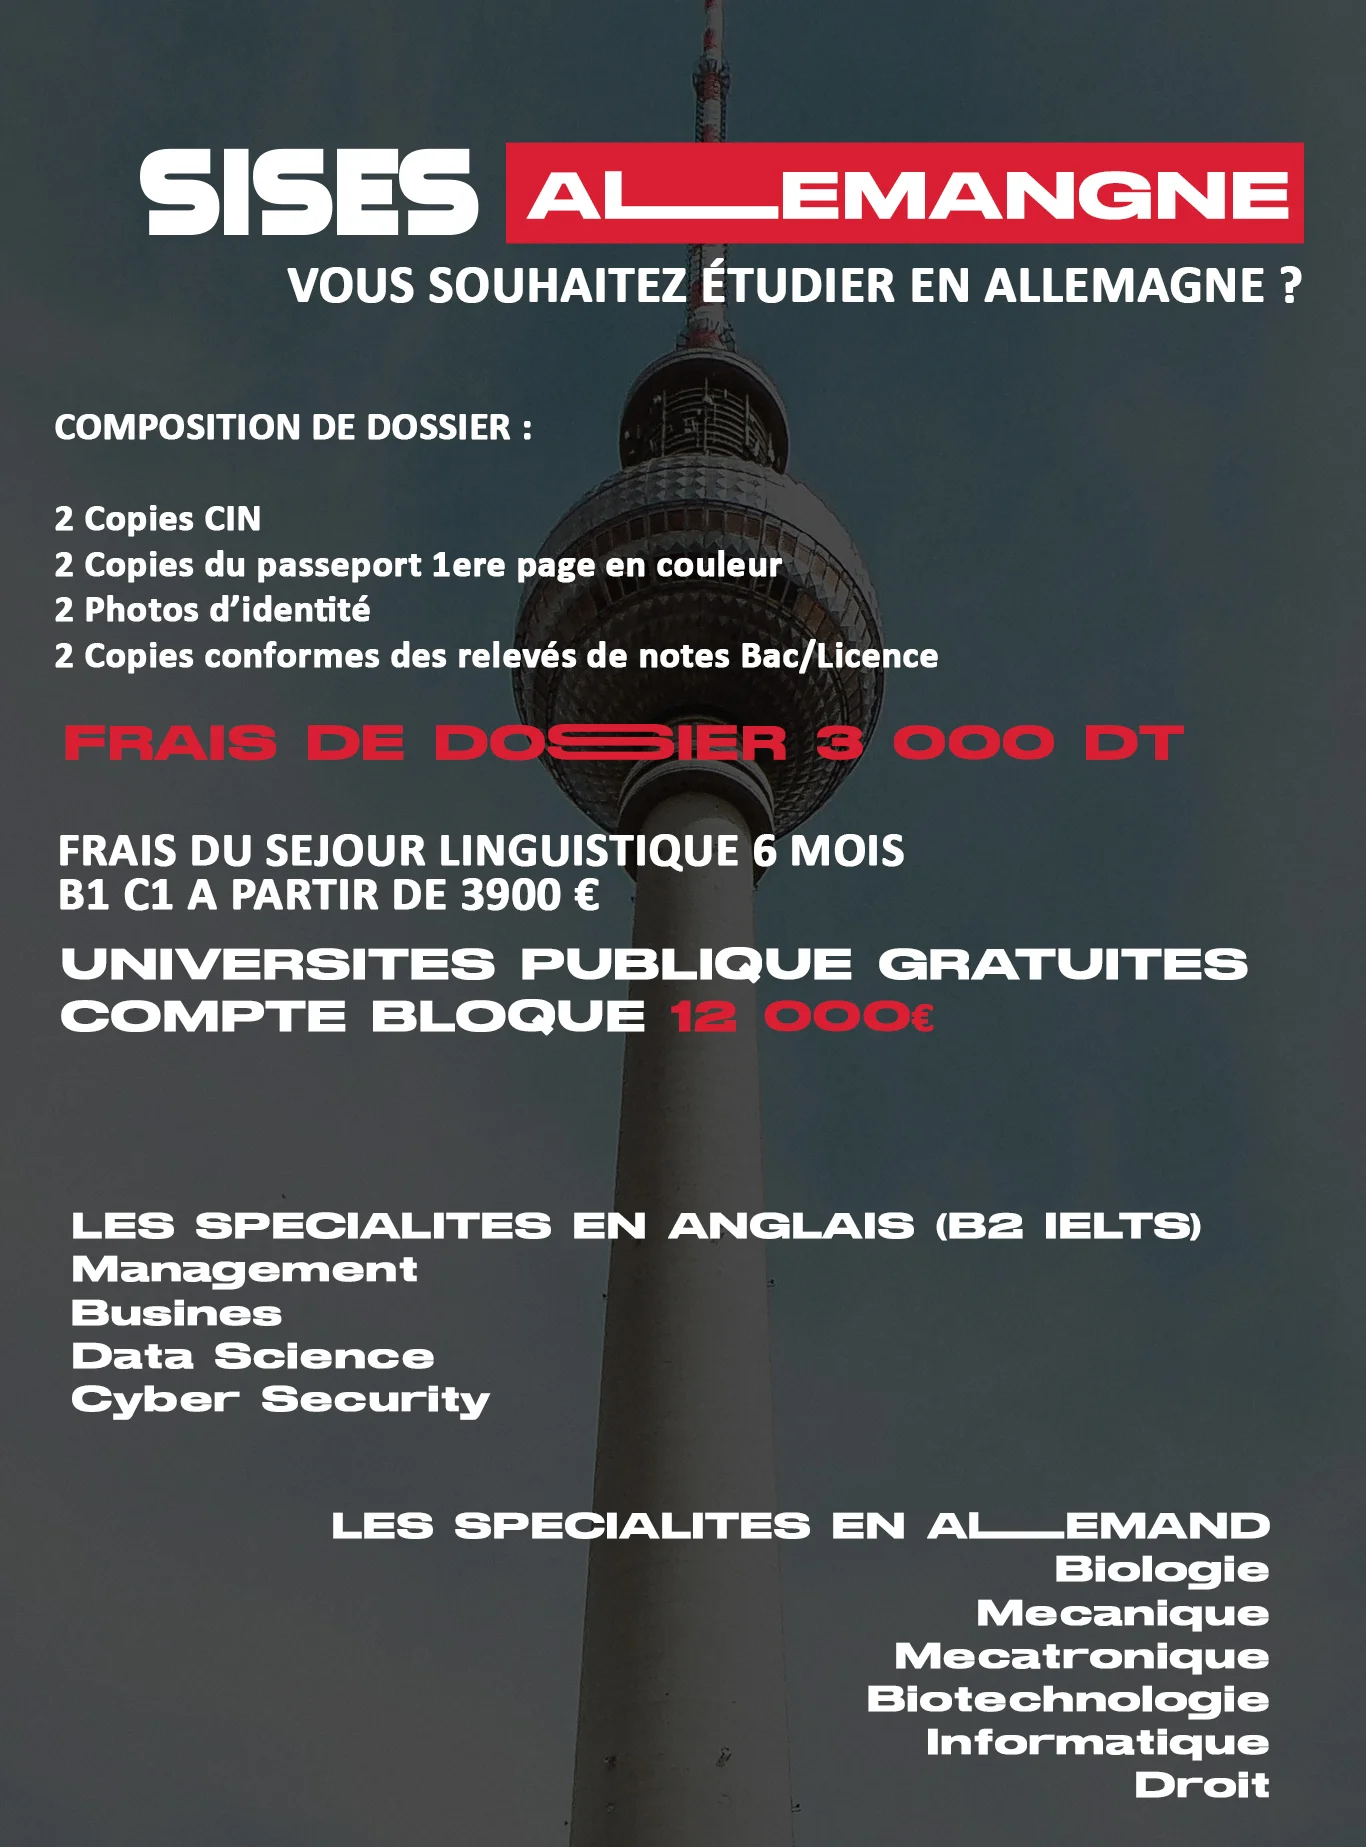
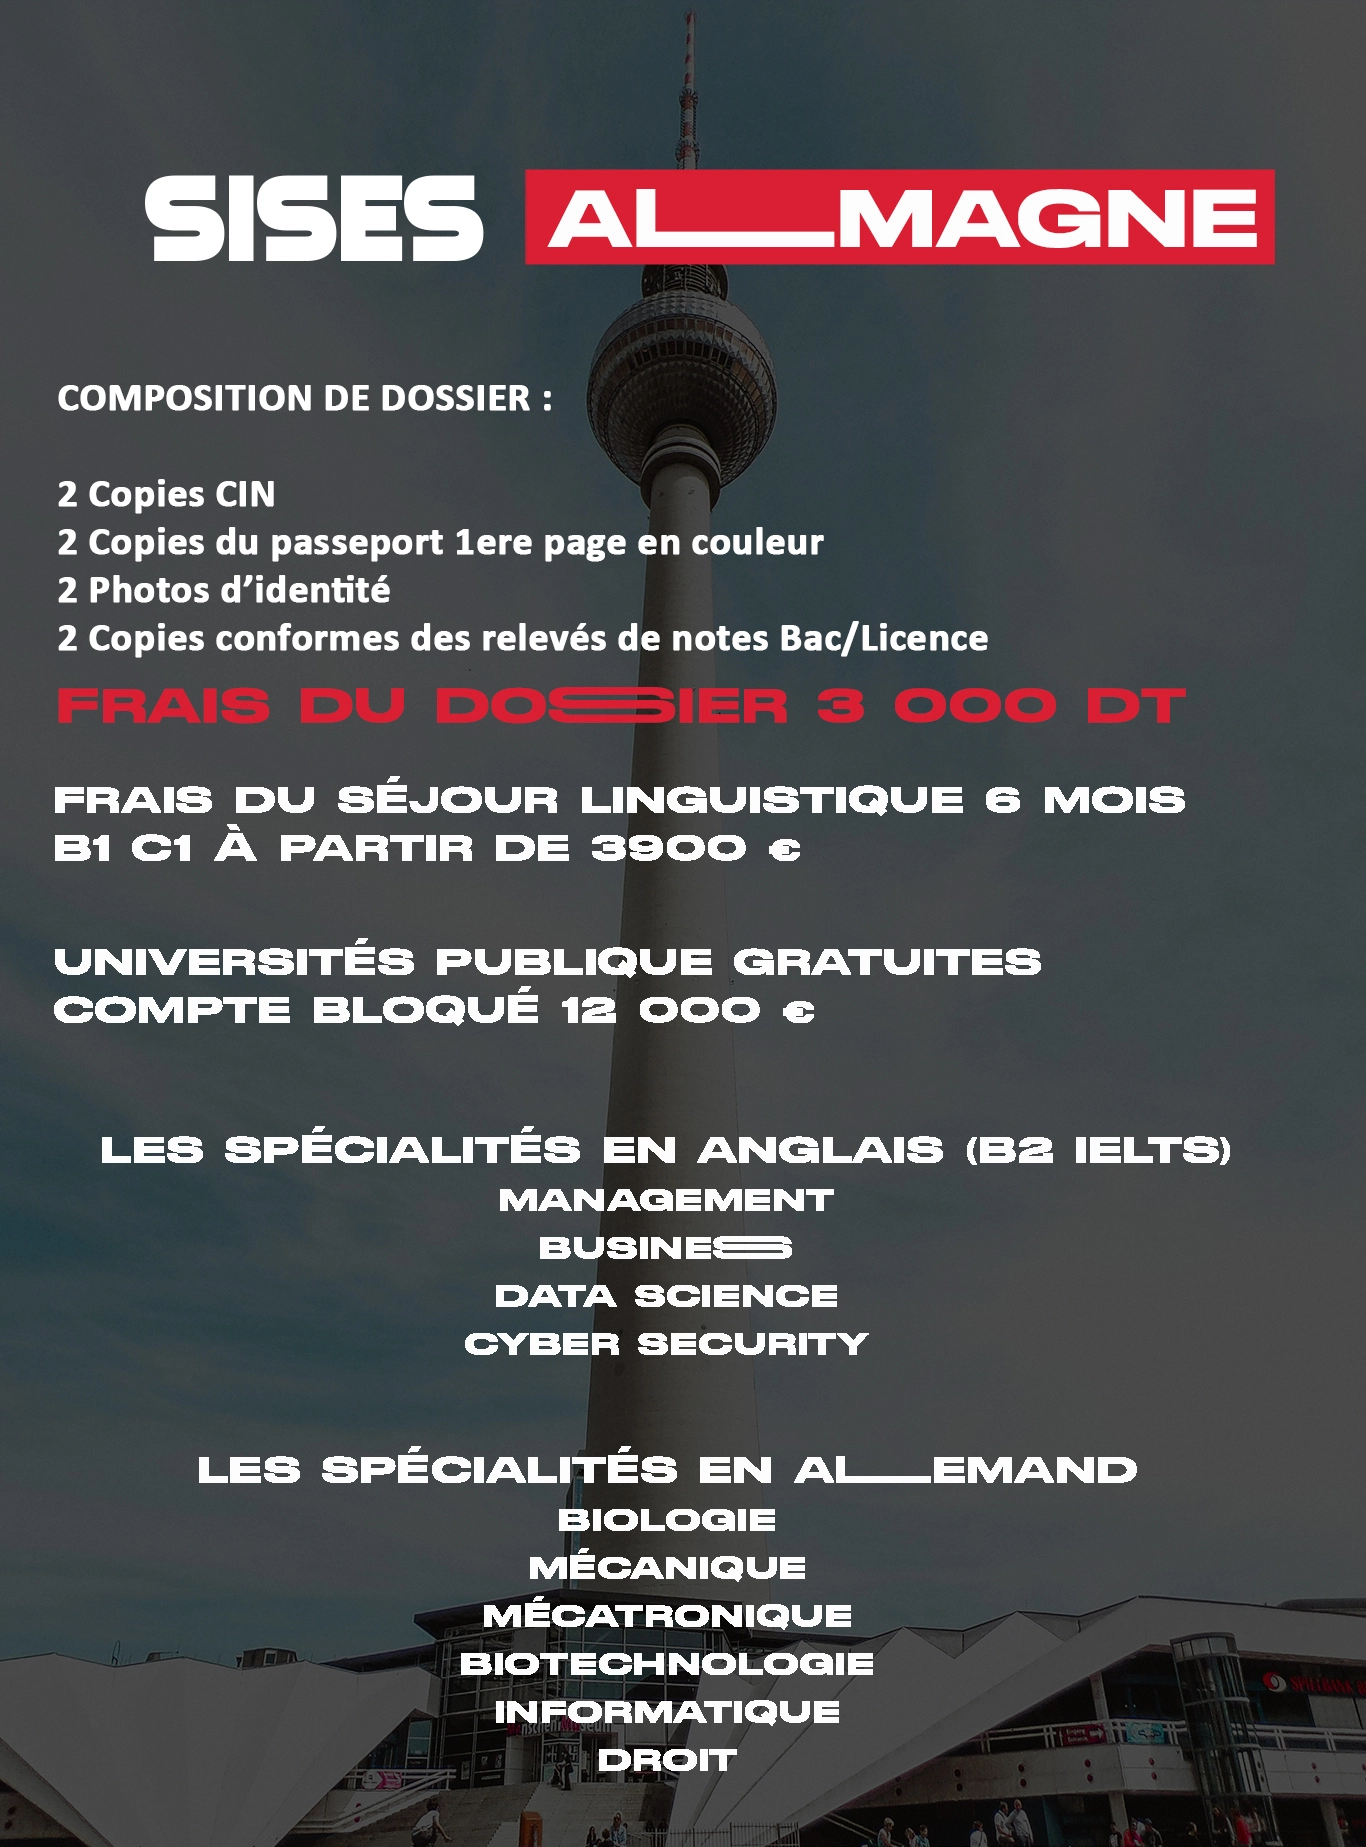
fixes

Changed region(s): [[0.0, 0.0, 1.0, 1.0], [0.0, 0.9567, 0.0922, 1.0], [0.1537, 0.895, 0.2152, 0.9258]]

diff --git a/src/app/pages/home-page/home-page.component.html b/src/app/pages/home-page/home-page.component.html
@@ -86,12 +86,12 @@
       <div class="container" data-aos="fade-up">
         <div class="section-title"><h2 class="sises-logo-title">CONTACT</h2></div>
         <div class="row gy-4">
-          <div class="col-lg-4" data-aos-delay="300"><div class="contact-hours h-100"><h4 class="fw-bold">HORAIRES D'OUVERTURE</h4><p>LUNDI - VENDREDI<br />8:00 - 17:00</p><p><strong>Email&nbsp;:</strong> elenadimassi@gmail.com</p><div class="social-links mt-3"><a href="#" class="facebook" aria-label="Facebook"><i class="bi bi-facebook"></i></a><a href="#" class="instagram" aria-label="Instagram"><i class="bi bi-instagram"></i></a></div></div></div>
+          <div class="col-lg-4" data-aos-delay="300"><div class="contact-hours h-100"><h4 class="fw-bold">HORAIRES D'OUVERTURE</h4><p>LUNDI - VENDREDI<br />8:00 - 17:00</p><p><strong>Email&nbsp;:</strong> elenadimassi@gmail.com</p><div class="social-links mt-3"><a href="https://www.facebook.com/SisesTunisie/" class="facebook" aria-label="Facebook"><i class="bi bi-facebook"></i></a><a href="https://www.instagram.com/sises.tunisia/" class="instagram" aria-label="Instagram"><i class="bi bi-instagram"></i></a></div></div></div>
           <div class="col-lg-8">
             <div class="row gy-4">
-              <div class="col-md-6" data-aos-delay="400"><div class="contact-location h-100"><h4 class="fw-bold">SISES TUNIS</h4><p>42, Av, Hedi Chaker im.Afric-Mode ben saleh,<br />App.B12 4éme étage - Tunis<br />71 781 386</p></div></div>
-              <div class="col-md-6" data-aos-delay="500"><div class="contact-location h-100"><h4 class="fw-bold">SISES LAC 2</h4><p>Av. De la bourse , Immeuble Diar Sidi Mansour 4,<br />Bureau MA2 bloc A , Lac 2<br />54 292 290</p></div></div>
-              <div class="col-md-6" data-aos-delay="600"><div class="contact-location h-100"><h4 class="fw-bold">SISES SAHEL</h4><p>Av, Habib Bourguiba (À coté de la poste)<br />Bouhjar - Monastir<br />55 288 139</p></div></div>
+              <div class="col-md-6" data-aos-delay="400"><div class="contact-location h-100"><h4 class="fw-bold">SISES TUNIS</h4><p>42, Av, Hedi Chaker im.Afric-Mode ben saleh,<br />App.B12 4éme étage - Tunis<br />+216 71 781 386</p></div></div>
+              <div class="col-md-6" data-aos-delay="500"><div class="contact-location h-100"><h4 class="fw-bold">SISES LAC 2</h4><p>Av. De la bourse , Immeuble Diar Sidi Mansour 4,<br />Bureau MA2 bloc A , Lac 2<br />+216 54 292 290</p></div></div>
+              <div class="col-md-6" data-aos-delay="600"><div class="contact-location h-100"><h4 class="fw-bold">SISES SAHEL</h4><p>Av Taieb Mhiri , Immeube Galaxy App B3.1<br />Mahdia<br />+216 55 288 139</p></div></div>
             </div>
           </div>
         </div>

diff --git a/src/app/shared/footer/footer.component.html b/src/app/shared/footer/footer.component.html
@@ -28,8 +28,8 @@
         <h4 class="section-title">Réseaux sociaux</h4>
 
         <div class="social-links d-flex mt-4">
-          <a href="https://www.facebook.com/share/16v4VuRY3n/?mibextid=wwXIfr"><i class="bi bi-facebook"></i></a>
-          <a href="https://www.instagram.com/sises.98?igsh=MXF0ZHVscjdkMDR1dA=="><i class="bi bi-instagram"></i></a>
+          <a href="https://www.facebook.com/SisesTunisie/"><i class="bi bi-facebook"></i></a>
+          <a href="https://www.instagram.com/sises.tunisia/"><i class="bi bi-instagram"></i></a>
         </div>
       </div>
     </div>
